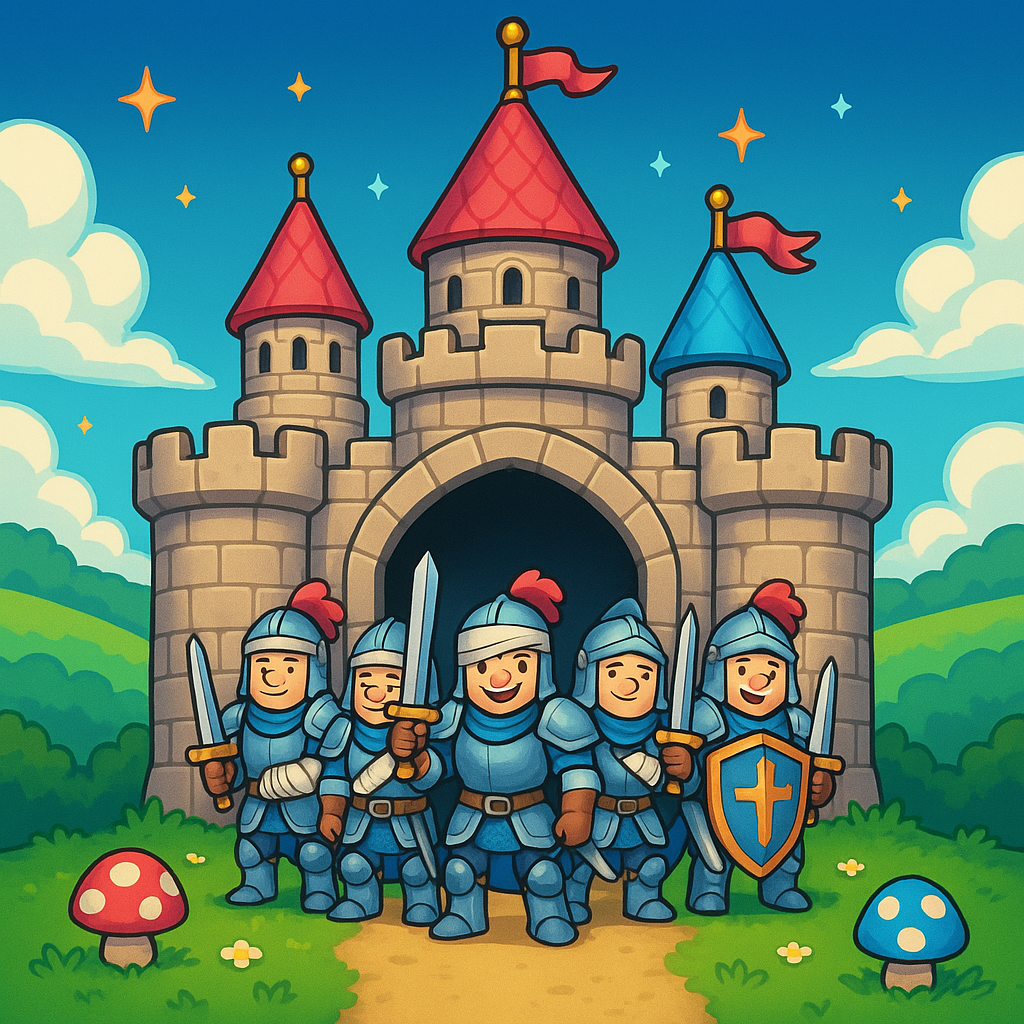
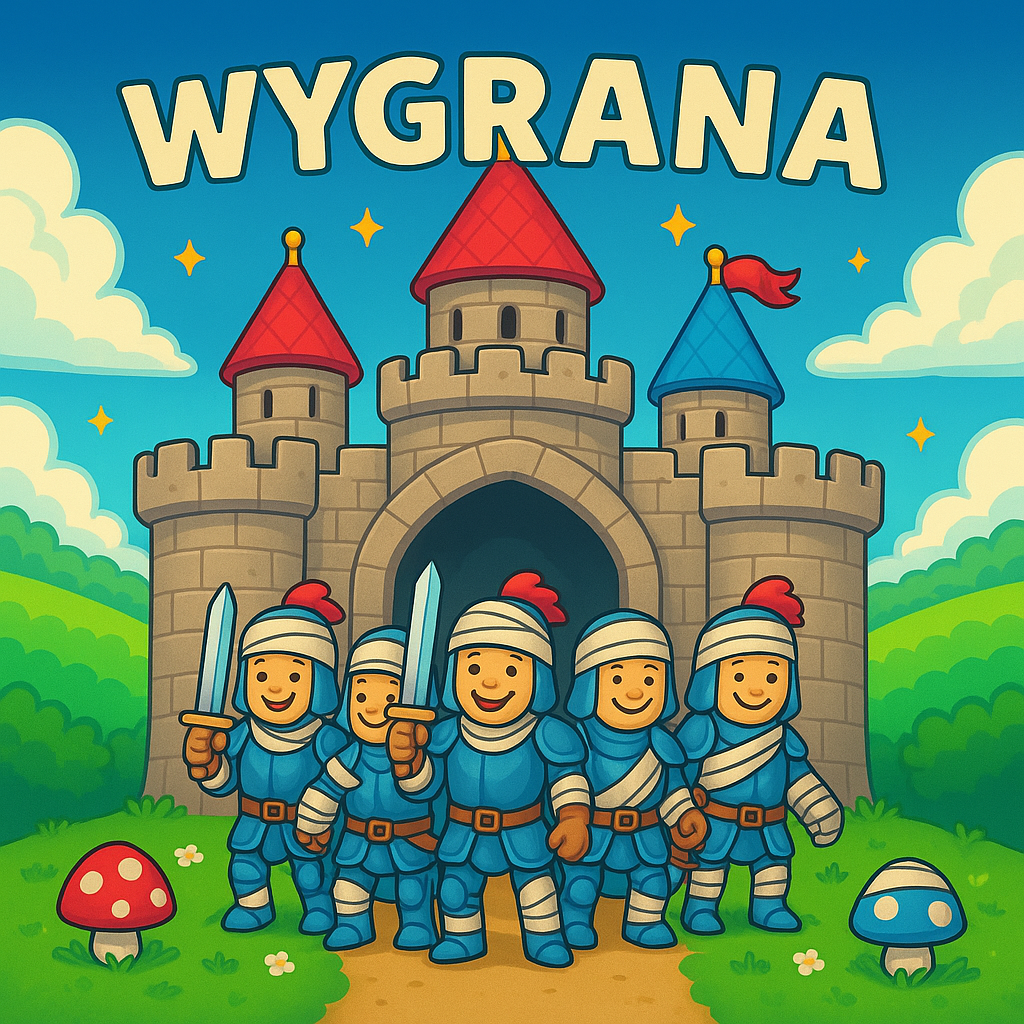
Adding functions

diff --git a/SwipeArena/AIHelper.cs b/SwipeArena/AIHelper.cs
@@ -22,25 +22,10 @@ namespace SwipeArena
         /// </summary>
         /// <param name="board">Dwuwymiarowa tablica reprezentująca planszę.</param>
         /// <returns>Najlepszy ruch w formacie (startX, startY, endX, endY).</returns>
-        public (int startX, int startY, int endX, int endY) SuggestBestMove(int[,] board)
+        public (int startX, int startY, int endX, int endY) SuggestBestMove(IGameElement[,] board)
         {
             var possibleMoves = FindPossibleMoves(board);
-            var bestMove = EvaluateBestMove(possibleMoves, board);
-            return bestMove;
-        }
-
-        /// <summary>
-        /// Tryb auto-gracza: wykonuje ruchy za gracza.
-        /// </summary>
-        /// <param name="board">Dwuwymiarowa tablica reprezentująca planszę.</param>
-        public void AutoPlay(int[,] board)
-        {
-            while (true)
-            {
-                var bestMove = SuggestBestMove(board);
-                if (bestMove == (-1, -1, -1, -1)) break; 
-                ExecuteMove(board, bestMove);
-            }
+            return EvaluateBestMove(possibleMoves, board);
         }
 
         /// <summary>
@@ -48,11 +33,48 @@ namespace SwipeArena
         /// </summary>
         /// <param name="board">Dwuwymiarowa tablica reprezentująca planszę.</param>
         /// <returns>Lista możliwych ruchów.</returns>
-        private List<(int startX, int startY, int endX, int endY)> FindPossibleMoves(int[,] board)
+        private List<(int startX, int startY, int endX, int endY)> FindPossibleMoves(IGameElement[,] board)
         {
-            var moves = new List<(int startX, int startY, int endX, int endY)>();
-            // Implementacja logiki wyszukiwania możliwych ruchów
+            int rows = board.GetLength(0);
+            int cols = board.GetLength(1);
+            var moves = new List<(int, int, int, int)>();
+
+            for (int y = 0; y < rows; y++)
+            {
+                for (int x = 0; x < cols; x++)
+                {
+                    if (x + 1 < cols && CausesMatch(board, x, y, x + 1, y))
+                        moves.Add((x, y, x + 1, y));
+
+                    if (y + 1 < rows && CausesMatch(board, x, y, x, y + 1))
+                        moves.Add((x, y, x, y + 1));
+                }
+            }
+
             return moves;
+        }
+
+        bool CausesMatch(IGameElement[,] board, int x1, int y1, int x2, int y2)
+        {
+            (board[y1, x1], board[y2, x2]) = (board[y2, x2], board[y1, x1]);
+            var result = CheckMatchAt(board, x1, y1) || CheckMatchAt(board, x2, y2);
+            (board[y1, x1], board[y2, x2]) = (board[y2, x2], board[y1, x1]);
+            return result;
+        }
+
+        bool CheckMatchAt(IGameElement[,] board, int x, int y)
+        {
+            string name = board[y, x].Name;
+            int rows = board.GetLength(0);
+            int cols = board.GetLength(1);
+
+            int countH = 1, countV = 1;
+            for (int i = x - 1; i >= 0 && board[y, i].Name == name; i--) countH++;
+            for (int i = x + 1; i < cols && board[y, i].Name == name; i++) countH++;
+            for (int i = y - 1; i >= 0 && board[i, x].Name == name; i--) countV++;
+            for (int i = y + 1; i < rows && board[i, x].Name == name; i++) countV++;
+
+            return countH >= 3 || countV >= 3;
         }
 
         /// <summary>
@@ -61,55 +83,10 @@ namespace SwipeArena
         /// <param name="moves">Lista możliwych ruchów.</param>
         /// <param name="board">Dwuwymiarowa tablica reprezentująca planszę.</param>
         /// <returns>Najlepszy ruch.</returns>
-        private (int startX, int startY, int endX, int endY) EvaluateBestMove(List<(int startX, int startY, int endX, int endY)> moves, int[,] board)
+        private (int startX, int startY, int endX, int endY) EvaluateBestMove(List<(int startX, int startY, int endX, int endY)> moves, IGameElement[,] board)
         {
-            (int startX, int startY, int endX, int endY) bestMove = (-1, -1, -1, -1);
-            int bestScore = int.MinValue;
-
-            foreach (var move in moves)
-            {
-                int score = CalculateMoveScore(move, board);
-                if (score > bestScore)
-                {
-                    bestScore = score;
-                    bestMove = move;
-                }
-            }
-
-            return bestMove;
-        }
-
-        /// <summary>
-        /// Oblicza wartość punktową dla danego ruchu.
-        /// </summary>
-        /// <param name="move">Ruch do oceny.</param>
-        /// <param name="board">Dwuwymiarowa tablica reprezentująca planszę.</param>
-        /// <returns>Wartość punktowa ruchu.</returns>
-        private int CalculateMoveScore((int startX, int startY, int endX, int endY) move, int[,] board)
-        {
-            int score = 0;
-            // Implementacja logiki obliczania punktów
-            return score;
-        }
-
-        /// <summary>
-        /// Wykonuje ruch na planszy.
-        /// </summary>
-        /// <param name="board">Dwuwymiarowa tablica reprezentująca planszę.</param>
-        /// <param name="move">Ruch do wykonania.</param>
-        void ExecuteMove(int[,] board, (int startX, int startY, int endX, int endY) move)
-        {
-            // Pobierz współrzędne ruchu
-            int startX = move.startX;
-            int startY = move.startY;
-            int endX = move.endX;
-            int endY = move.endY;
-
-            // Zamień wartości w tablicy
-            int temp = board[startY, startX];
-            board[startY, startX] = board[endY, endX];
-            board[endY, endX] = temp;
-
+            if (moves.Count == 0) return (-1, -1, -1, -1);
+            return moves[0];
         }
     }
 }

diff --git a/SwipeArena/Level.cs b/SwipeArena/Level.cs
@@ -1,5 +1,6 @@
 using System.Drawing.Drawing2D;
 using System.Windows.Forms;
+using static System.Windows.Forms.VisualStyles.VisualStyleElement.Window;
 
 // TODO:
 // Dodać podświetlnie tego co wybraliśmy (lub takie przybliżenie) (zrobione)  
@@ -19,6 +20,7 @@ namespace SwipeArena
     public partial class Level : BaseForm
     {
 
+        AIHelper ai = new AIHelper();
         List<IGameElement> elementTypes = new();
         IGameElement[,] grid;
         PictureBox firstClicked = null;
@@ -28,7 +30,7 @@ namespace SwipeArena
         int movesLeft, pointsCollected, pointsToWin;
 
         Label movesLabel, pointsLabel;
-        Button settingsButton;
+        Button settingsButton, hintButton;
 
         bool isDragging = false;
         Point mouseDownPos;
@@ -50,6 +52,7 @@ namespace SwipeArena
 
             CreateUI();
             GenerateLevel();
+
             CenterElements();
             Resize += (s, e) => CenterElements();
         }
@@ -205,6 +208,18 @@ namespace SwipeArena
                 location: new Point(10, 50)
                 );
 
+            hintButton = UIHelper.CreateButton(
+                title: "HintButton",
+                text: "Podpowiedź",
+                backColor: Color.LightBlue,
+                foreColor: Color.Black,
+                size: new Size(100, 30),
+                location: new Point(10, 140),
+                font: BasicSettings.FontFamily,
+                fontSize: BasicSettings.FontSize
+            );
+            hintButton.Click += HintButton_Click;
+
             settingsButton = UIHelper.CreateButton(
                 title: "Settings",
                 text: "Ustawienia",
@@ -217,8 +232,43 @@ namespace SwipeArena
                 fontStyle: FontStyle.Bold
                 );
             settingsButton.Click += (s, e) => { new Settings().ShowDialog(); SettingsHelper.ApplySettings(this, "Ustawienia"); };
-            Controls.AddRange(new Control[] { settingsButton, movesLabel, pointsLabel });
+            Controls.AddRange(new Control[] { settingsButton, hintButton, movesLabel, pointsLabel });
         }
+
+        void HintButton_Click(object sender, EventArgs e)
+        {
+            var bestMove = ai.SuggestBestMove(grid);
+            if (bestMove.startX != -1)
+            {
+                HighlightHint(bestMove);
+            }
+        }
+
+        void HighlightHint((int startX, int startY, int endX, int endY) move)
+        {
+            foreach (PictureBox pic in Controls.OfType<PictureBox>())
+            {
+                if (pic.Tag is Point pos &&
+                    (pos == new Point(move.startX, move.startY) || pos == new Point(move.endX, move.endY)))
+                {
+                    pic.BackColor = Color.Yellow;
+                }
+            }
+
+            System.Windows.Forms.Timer timer = new System.Windows.Forms.Timer();
+            timer.Interval = 1000;
+            timer.Tick += (s, e) =>
+            {
+                foreach (PictureBox pic in Controls.OfType<PictureBox>())
+                {
+                    if (pic.BackColor == Color.Yellow)
+                        pic.BackColor = Color.Transparent;
+                }
+                timer.Stop();
+            };
+            timer.Start();
+        }
+
 
 
         /// <summary>
@@ -540,10 +590,7 @@ namespace SwipeArena
             {
                 // Przejście do formularza LevelComplete
                 var levelComplete = new LevelComplete();
-                levelComplete.Show();
-
-                // Zamknięcie bieżącego formularza
-                Hide();
+                NavigateToForm(levelComplete);
             }
 
             // Przegranie w poziomie 
@@ -551,10 +598,7 @@ namespace SwipeArena
             {
                 // Przejście do formularza GameOver 
                 var gameOver = new GameOver();
-                gameOver.Show();
-
-                // Zamknięcie bieżącego formularza
-                Hide();
+                NavigateToForm(gameOver);
             }
         }
 

diff --git a/SwipeArena/UIHelper.cs b/SwipeArena/UIHelper.cs
@@ -37,20 +37,36 @@ namespace SwipeArena
             System.Drawing.Image? backgroundImage = null
             )
         {
-
-            return new Button
+            try
             {
-                Text = text,
-                FlatStyle = FlatStyle.Flat,
-                BackColor = backColor, // Color.FromArgb(67, 203, 107)
-                ForeColor = foreColor, // Color.White
-                Size = size ?? new Size(10, 10),
-                Location = location ?? new Point(0,0),
-                FlatAppearance = { BorderSize = borderSize },
-                Font = new System.Drawing.Font(font, fontSize, fontStyle),
-                BackgroundImage = backgroundImage,
-                BackgroundImageLayout = imageLayout,
-            };
+                return new Button
+                {
+                    Text = text,
+                    FlatStyle = FlatStyle.Flat,
+                    BackColor = backColor, // Color.FromArgb(67, 203, 107)
+                    ForeColor = foreColor, // Color.White
+                    Size = size ?? new Size(10, 10),
+                    Location = location ?? new Point(0, 0),
+                    FlatAppearance = { BorderSize = borderSize },
+                    Font = new System.Drawing.Font(font, fontSize, fontStyle),
+                    BackgroundImage = backgroundImage,
+                    BackgroundImageLayout = imageLayout,
+                };
+            }
+            catch (Exception ex)
+            {
+                MessageBox.Show($"Error: {ex.Message}");
+
+                return new Button
+                {
+                    Text = "Error",
+                    BackColor = Color.Red,
+                    ForeColor = Color.White,
+                    Size = new Size(100, 50),
+                    Location = new Point(0, 0),
+                };
+            }
+
         }
 
 

diff --git a/SwipeArena/Settings.cs b/SwipeArena/Settings.cs
@@ -103,11 +103,12 @@ namespace SwipeArena
                 text: "",
                 backColor: Color.FromArgb(255, 102, 102),
                 foreColor: Color.White,
-                size: new Size(ClientSize.Width / 10, 10),
+                size: new Size(0, 10),
                 location: new Point(ClientSize.Width / 3 + 300, 20),
                 font: BasicSettings.FontFamily,
                 fontSize: BasicSettings.FontSize,
-                fontStyle: FontStyle.Bold
+                fontStyle: FontStyle.Bold,
+                backgroundImage: Image.FromFile("images/icons/light_close.png")
                 );
             panelSettings.Controls.Add(closeSettingsButton);
 

diff --git a/SwipeArena/LevelComplete.cs b/SwipeArena/LevelComplete.cs
@@ -28,7 +28,7 @@ namespace SwipeArena
             {
                 // Ustawienia formularza
                 LoadBackgroundImage("images/background/level_complete.png");
-                SettingsHelper.ApplySettings(this, "Wygrałeś!!!");
+                SettingsHelper.ApplySettings(this, "Wygrana!!!");
 
                 AddButtons();
             }
@@ -118,7 +118,6 @@ namespace SwipeArena
             var menuForm = new Menu();
             NavigateToForm(menuForm);
         }
-
 
         void NextButton_Click(object sender, EventArgs e)
         {

diff --git a/SwipeArena/SettingsData.cs b/SwipeArena/SettingsData.cs
@@ -21,7 +21,7 @@ namespace SwipeArena
             get => IsVolumeOn ? _volume : 0;
             set => _volume = value;
         }
-        public bool IsAIon { get; set; }
+        public bool IsAIon { get; set; } = true;
 
         static readonly string SettingsFile = Path.Combine(AppDomain.CurrentDomain.BaseDirectory, "data", "settings.json");
 
